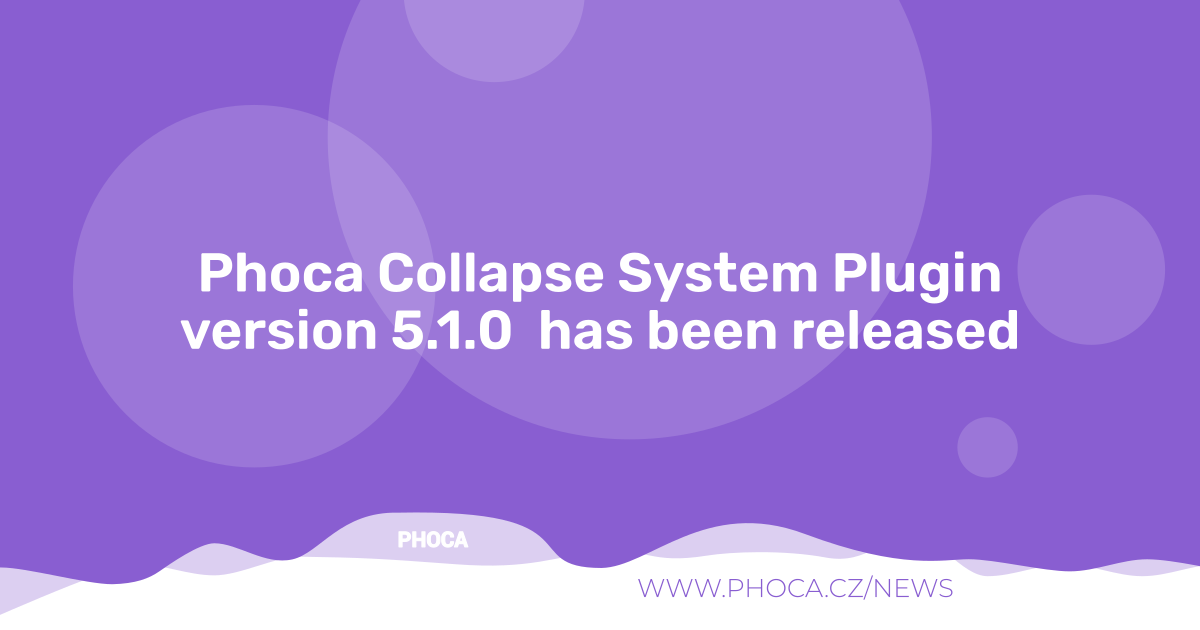
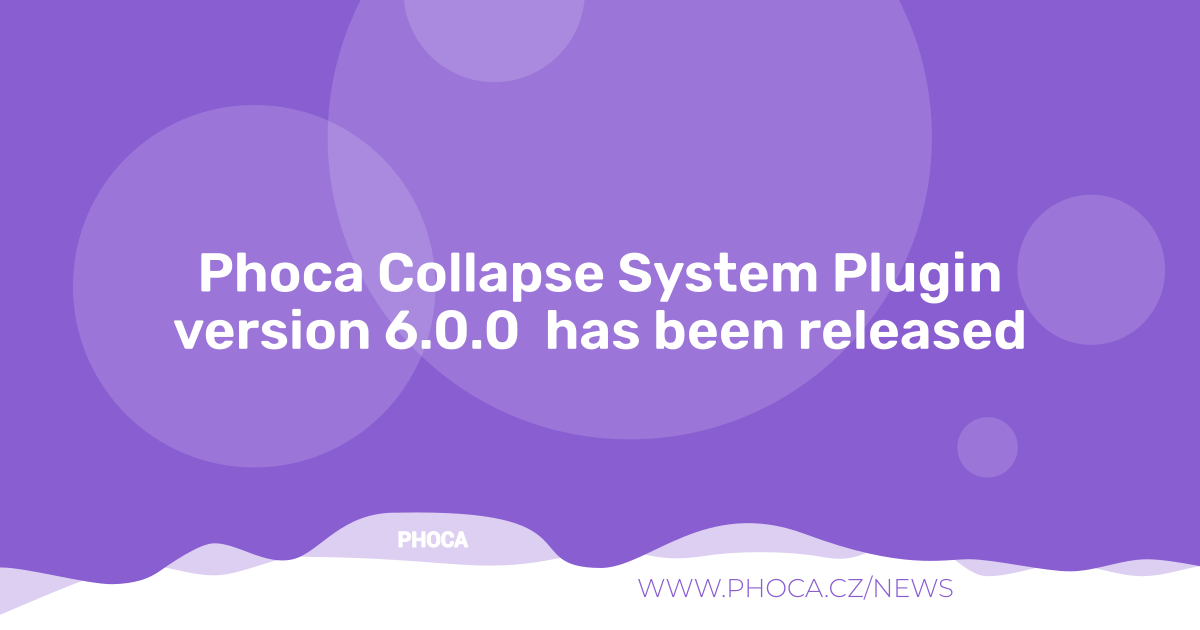
6.0.0

Changed region(s): [[0.1233, 0.4825, 0.8633, 0.573]]

diff --git a/media/js/phocacollapse.es6.js b/media/js/phocacollapse.es6.js
@@ -42,6 +42,7 @@ document.addEventListener("DOMContentLoaded", () => {
 					const childrenArrray = Array.from(children);
 
 					let textApplied = 0;
+					let title = '';
 					childrenArrray.forEach(function(elChild){
 						if (textApplied == 0) {
 
@@ -54,18 +55,60 @@ document.addEventListener("DOMContentLoaded", () => {
 							) {
 								if(elChild.children[0].querySelector('label') !== 'undefined') {
 
-									let title = elChild.children[0].querySelector('label').textContent;
-									if (title.trim() == '' && elChild.children[1].querySelector('label') !== null) {
+									let titlePrefix = elChild.children[0].querySelector('label').textContent;
+
+									if (titlePrefix.trim() == '' && elChild.children[1].querySelector('label') !== null) {
 										// Fieldset
-										title = elChild.children[1].querySelector('label').textContent;
+										titlePrefix = elChild.children[1].querySelector('label').textContent;
 									}
 
-									if (elChild.children[1].querySelector('input') !== null && elChild.children[1].querySelector('input').value != '') {
-										title = title + ': ' + elChild.children[1].querySelector('input').value;
-									} else if (elChild.children[1].querySelector('textarea') != null && elChild.children[1].querySelector('textarea').textContent != '') {
-										title = title + ': ' + elChild.children[1].querySelector('textarea').textContent;
-									} else if (elChild.children[1].querySelector('select') !== null &&  elChild.children[1].querySelector('select').selectedOptions.length > 0) {
-										title = title + ': ' + elChild.children[1].querySelector('select').selectedOptions[0].text;
+									if (typeof elChild.children[1] !== 'undefined') {
+
+										if (elChild.children[1].querySelector('input') !== null && elChild.children[1].querySelector('input').value != '') {
+											title = titlePrefix + ': ' + elChild.children[1].querySelector('input').value;
+										} else if (elChild.children[1].querySelector('textarea') != null && elChild.children[1].querySelector('textarea').textContent != '') {
+											title = titlePrefix + ': ' + elChild.children[1].querySelector('textarea').textContent;
+										} else if (elChild.children[1].querySelector('select') !== null &&  elChild.children[1].querySelector('select').selectedOptions.length > 0) {
+											title = titlePrefix + ': ' + elChild.children[1].querySelector('select').selectedOptions[0].text;
+										}
+									}
+
+									// Phoca Templates (additional divs in form)
+									if (elChild &&
+										elChild.children &&
+										elChild.children[0] &&
+										elChild.children[0].children) {
+
+										// ROW
+										if (elChild.children[0].children[3] &&
+											elChild.children[0].className == 'phTemplateRow') {
+											var inputEl = elChild.children[0].children[3].querySelector('input');
+
+											if (inputEl && inputEl.value !== '') {
+												var titleFull = inputEl.value;
+												var titleMatch = titleFull.match(/container-[^\s]*/);
+
+												if (titleMatch) {
+													title = titlePrefix + ': ' + titleMatch[0];
+												}
+											}
+										}
+
+										// COLUMN
+										if (elChild.children[0].children[1] &&
+											elChild.children[0].children[1].children &&
+											elChild.children[0].children[1].children[1] &&
+											elChild.children[0].className == 'phTemplateColumn'){
+
+											var inputEl = elChild.children[0].children[1].children[1].querySelector('input');
+											if (inputEl && inputEl.value !== '') {
+												title = titlePrefix + ': ' + inputEl.value;
+											}
+										}
+									}
+
+									if (title == '') {
+										title = titlePrefix;
 									}
 
 									if (title.trim() != '') {

diff --git a/phocacollapse.php b/phocacollapse.php
@@ -17,6 +17,7 @@ jimport( 'joomla.plugin.plugin' );
 
 class plgSystemPhocaCollapse extends CMSPlugin
 {
+	protected $autoloadLanguage = true;
 
 	public function __construct(& $subject, $config) {
 		$this->loadLanguage('plg_system_phocacollapse');
@@ -55,6 +56,7 @@ class plgSystemPhocaCollapse extends CMSPlugin
 		$text_format 		= $this->params->get('text_format', 1);
 
 		$text = Text::_('PLG_SYSTEM_PHOCACOLLAPSE_SHOW_HIDE');
+
 		$class = 'phCollapseClick';
 		$icon = '<span class="icon-eye" aria-hidden="true"></span>';
 

diff --git a/README.MD b/README.MD
@@ -50,10 +50,6 @@ Phoca Collapse System Plugin is a Joomla! CMS Plugin. It adds the ability to hid
 
 
 
-## Version (Joomla! 3.x)
-
-3.0.1
-
 ## Version (Joomla! 4.x)
 
 4.0.3
